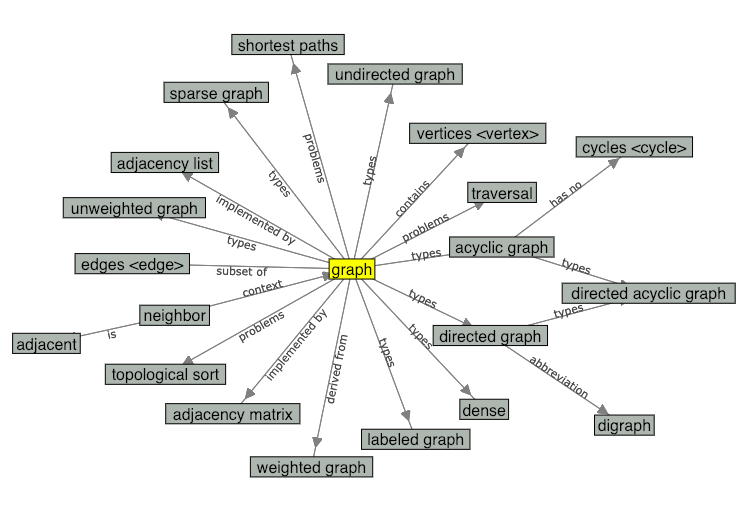
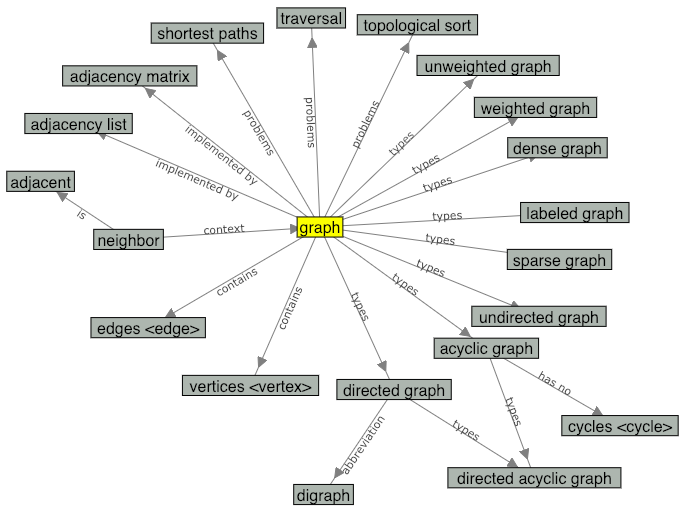
changes to concept map exercises

Changed region(s): [[0.0, 0.0, 1.0, 0.998], [0.6429, 0.8806, 0.9184, 0.9687]]

diff --git a/Exercises/CMP/CMoopMCQpara.html b/Exercises/CMP/CMoopMCQpara.html
@@ -1,0 +1,30 @@
+<!DOCTYPE html>
+<html data-require="math">
+  <head>
+    <title>Graph Question 5</title>
+    <script src="//cdnjs.cloudflare.com/ajax/libs/require.js/2.1.14/require.min.js"></script>
+    <script src="../../khan-exercises/local-only/main.js" ></script>
+  </head>
+
+  <body>
+    <div class="exercise">
+      <div class="problems">
+        <div id="CMoopMCQparap">
+          <p class="question">
+              This is a still image of the concept map "object-oriented programming paradigm", you can check the actual concept map on the glossary page.<br>
+              <img src="OOP_CM.PNG" height="350" width="550"><br>
+              Object-oriented programming is a whole programming paradigm based around -------</p>
+          <div class="solution">Objects</div>
+          <ul class="choices">
+            <li>Overriding</li>
+            <li>Polymorphism</li>
+            <li>Inheritance</li>
+          </ul>
+          <div class="hints">
+            <p>Please check the included concept map.</p>
+          </div>
+        </div>
+      </div>
+    </div>
+  </body>
+</html>

diff --git a/Exercises/CMP/CMoopMCQinher.html b/Exercises/CMP/CMoopMCQinher.html
@@ -1,0 +1,28 @@
+<!DOCTYPE html>
+<html data-require="math">
+  <head>
+    <title>Graph Question 1</title>
+    <script src="//cdnjs.cloudflare.com/ajax/libs/require.js/2.1.14/require.min.js"></script>
+    <script src="../../khan-exercises/local-only/main.js" ></script>
+  </head>
+
+  <body>
+    <div class="exercise">
+      <div class="problems">
+	<div id="CMoopMCQinherp">
+	  <p class="question">
+          This is a still image of the concept map "object-oriented programming paradigm", you can check the actual concept map on the glossary page.<br>
+          <img src="OOP_CM.PNG" height="350" width="550"><br>
+          In OOP, a class can be inherited?</p>
+	  <div class="solution">True</div>
+	  <ul class="choices">
+	    <li>False</li>
+	  </ul>
+	  <div class="hints">
+            <p>Please check the included concept map.</p> 
+	  </div>
+	</div>
+      </div>
+    </div>
+  </body>
+</html>

diff --git a/Exercises/CMP/CMoopSumm.html b/Exercises/CMP/CMoopSumm.html
@@ -7,12 +7,12 @@
   </head>
   <body data-height="900" data-width="950">
     <div class="exercise" data-name="CMoopMCQcorr"></div>
-    <div class="exercise" data-name="CMoopMCQinhe"></div>
+    <div class="exercise" data-name="CMoopMCQinher"></div>
     <div class="exercise" data-name="CMoopMCQload"></div>
     <div class="exercise" data-name="CMoopMCQnot"></div>
     <div class="exercise" data-name="CMoopMCQobj"></div>
+    <div class="exercise" data-name="CMoopMCQpara"></div>
     <div class="exercise" data-name="CMoopMCQpoly"></div>
-    <div class="exercise" data-name="CMoopMCQrid"></div>
     <div class="exercise" data-name="CMoopMCQsub"></div>
   </body>
 </html>

diff --git a/RST/en/Glossary.rst b/RST/en/Glossary.rst
@@ -2066,7 +2066,7 @@ Glossary
       :to-term: traversal :label: problems
       :to-term: topological sort :label: problems
       :to-term: shortest paths :label: problems
-      :to-term: dense :label: types
+      :to-term: dense graph :label: types
       :to-term: sparse graph :label: types
       :to-term: directed graph :label: types
       :to-term: acyclic graph :label: types
@@ -3141,8 +3141,6 @@ Glossary
       :to-term: Prim's algorithm :label: algorithms
       :to-term: MCST :label: abbreviation
       :to-term: MST :label: abbreviation
-      :to-term: weighted graph :label: derived from
-      :to-term: edges <edge> :label: subset of
       :to-term: cycle :label: never have
       :to-term: tree :label: is a
 
